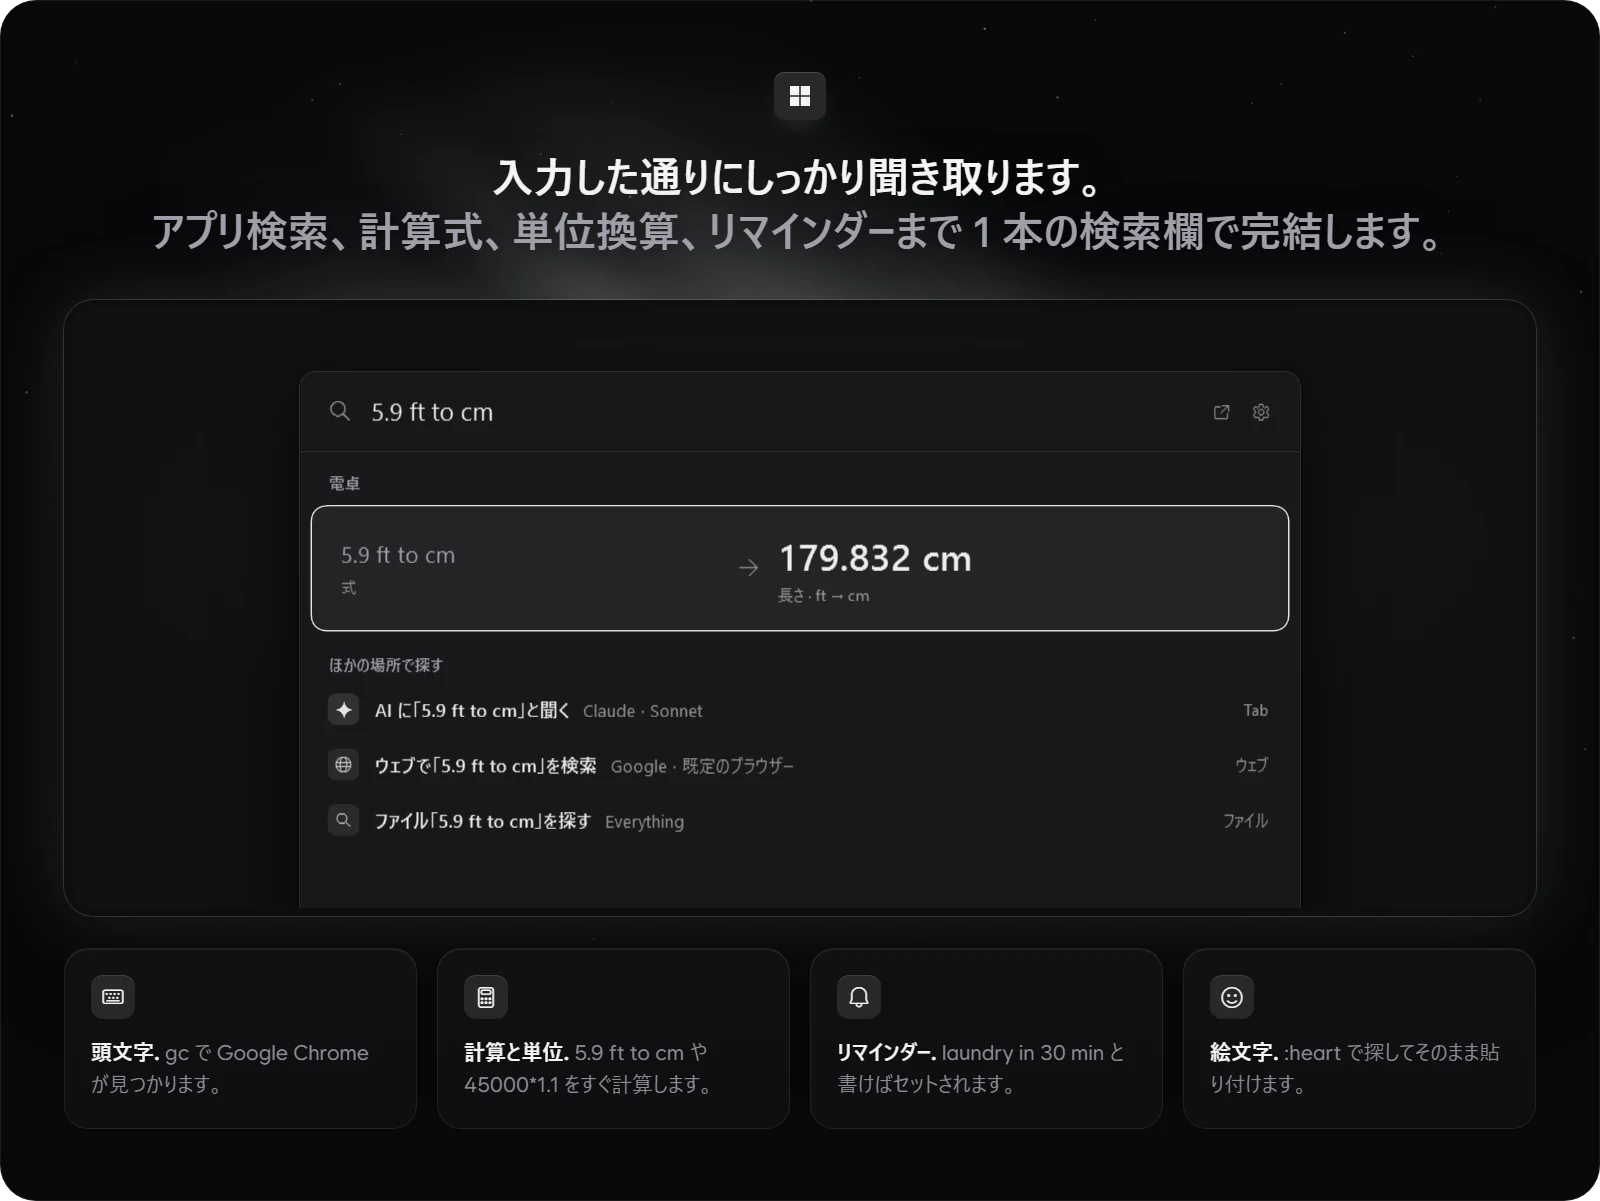
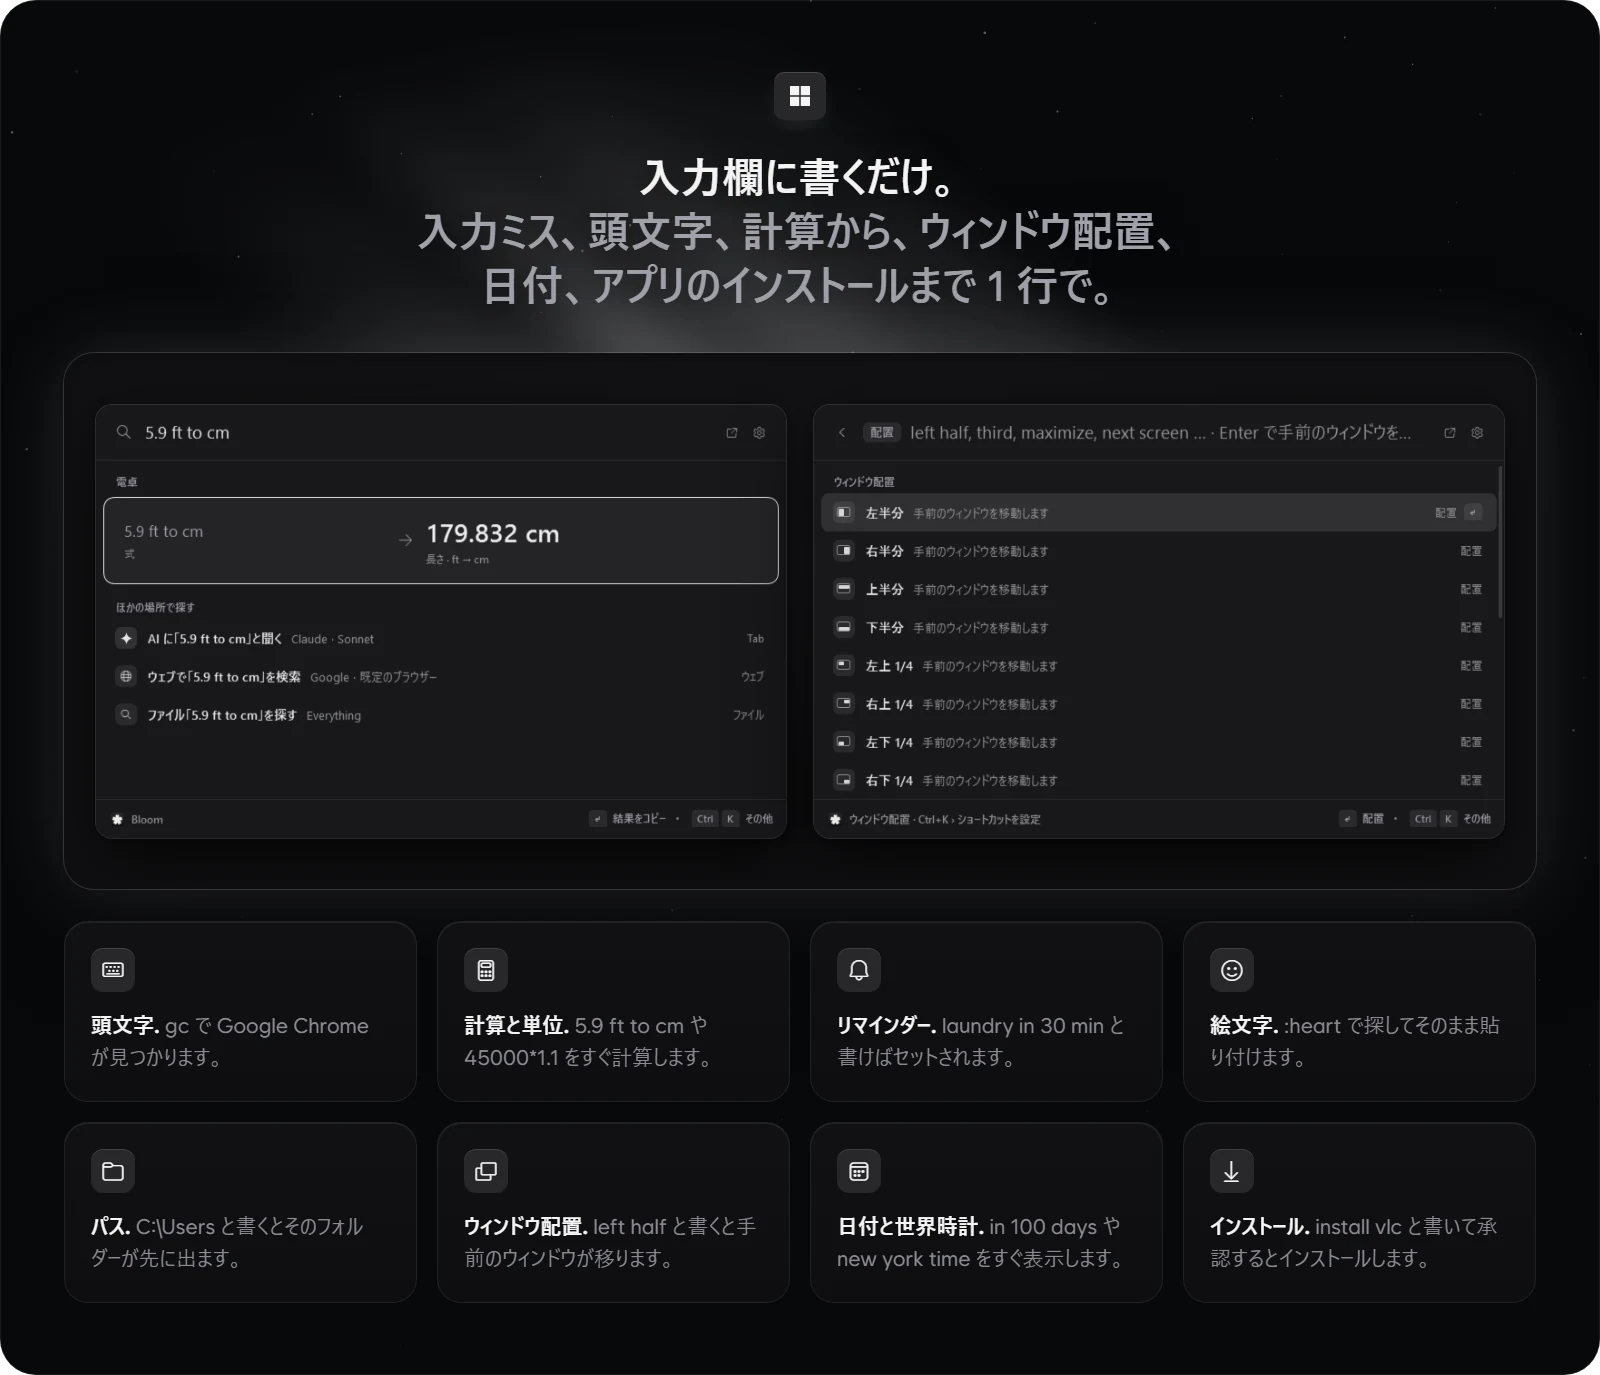
README: the search line and what it runs in one section and one board
"One search line" and "Paths, windows, dates and installs" become one section:
one list, one board with both pictures side by side and the eight cards, and
the head from the promo video (Just type it in). Four languages.

diff --git a/README.ja.md b/README.ja.md
@@ -39,7 +39,7 @@ irm https://raw.githubusercontent.com/hyeon1035298/Bloom/main/install.ps1 | iex
 
 ### 1 本の検索欄
 
-<img src="docs/media/ja/search.webp" alt="5.9 ft to cm を換算したランチャーと、頭文字、計算と単位、リマインダー、絵文字を説明するカード">
+<img src="docs/media/ja/search.webp" alt="5.9 ft to cm を換算したランチャーとウィンドウ配置の一覧、頭文字、計算と単位、リマインダー、絵文字、パス、ウィンドウ配置、日付、インストールのカード">
 
 - インストール済みのアプリ、Windows の設定、Bloom のコマンドをすばやく探せます。英語の頭文字（`gc`）だけで探せるほか、韓国語入力では初声（`ㅁㅁㅈ`）や IME の切り替え忘れ（`초개ㅡㄷ`）にも対応しています。
 - `45000*1.1`、`5.9 ft to cm`、`100 usd` のように計算式や単位、通貨を入力するとその場で計算し、Enter を押せば結果をクリップボードにコピーします。
@@ -47,11 +47,6 @@ irm https://raw.githubusercontent.com/hyeon1035298/Bloom/main/install.ps1 | iex
 - `:heart` のように入力して絵文字を探したり、`yt cats` のように先頭にキーワードを付けて目的のサイトを直接検索したりできます。
 - Everything がインストールされていれば、PC 内のあらゆるファイルを名前ですぐに見つけ出せます。
 - 検索結果で Ctrl+K を押すとその項目に対して行える操作の一覧が開き、空の検索欄に `?` を入力すると使える入力例をひと目で確認できます。
-
-### パス、ウィンドウ、日付、インストール
-
-<img src="docs/media/ja/more.webp" alt="半分や 4 分の 1 をアイコンで示したウィンドウ配置の一覧と、パス、ウィンドウ配置、日付と世界時計、インストールを説明するカード">
-
 - `C:\Users` のようにフォルダーのパスを入力すると、エクスプローラーをわざわざ開かなくてもその場で中身を確認できます。
 - `left half`、`maximize`、`next screen` のように入力して、今見ているウィンドウを画面半分に寄せたり別のモニターへ移したりできます。
 - `in 100 days` や `tokyo 3pm` のように入力して、日付の計算や世界各地の時刻の確認ができます。

diff --git a/README.ko.md b/README.ko.md
@@ -39,7 +39,7 @@ irm https://raw.githubusercontent.com/hyeon1035298/Bloom/main/install.ps1 | iex
 
 ### 검색줄 하나로
 
-<img src="docs/media/ko/search.webp" alt="초성 ㅁㅁㅈ로 메모장을 찾은 런처와, 초성, 계산과 단위, 알림, 이모지를 설명하는 카드">
+<img src="docs/media/ko/search.webp" alt="초성 ㅁㅁㅈ로 메모장을 찾은 런처와 창 배치 목록, 그리고 초성, 계산과 단위, 알림, 이모지, 경로, 창 배치, 날짜, 앱 설치 카드">
 
 - 설치된 앱과 Windows 설정, Bloom 명령을 빠르게 찾습니다. 초성(`ㅁㅁㅈ`)이나 영어 첫 글자(`gc`)만 적어도 되고, 한/영 키를 안 바꾸고 그냥 친 글자(`초개ㅡㄷ`)도 알아듣습니다.
 - `45000*1.1`, `84m2 to 평`, `100 usd`처럼 계산식이나 단위, 환율을 적으면 바로 계산해 주고, Enter를 누르면 결과를 클립보드에 복사합니다.
@@ -47,11 +47,6 @@ irm https://raw.githubusercontent.com/hyeon1035298/Bloom/main/install.ps1 | iex
 - `:하트`처럼 적어 이모지를 찾고, `yt 고양이`처럼 앞글자를 붙여 원하는 사이트에서 바로 검색합니다.
 - Everything이 깔려 있으면 PC 안의 모든 파일을 이름으로 바로 찾아 줍니다.
 - 검색 결과에서 Ctrl+K를 누르면 그 항목으로 할 수 있는 작업 목록이 열리고, 빈 검색줄에 `?`를 적으면 쓸 수 있는 입력 예시를 한눈에 보여 줍니다.
-
-### 경로, 창 배치, 날짜, 앱 설치
-
-<img src="docs/media/ko/more.webp" alt="절반과 1/4을 그림으로 보여 주는 창 배치 목록과, 경로, 창 배치, 날짜와 세계 시간, 앱 설치를 설명하는 카드">
-
 - `C:\Users`처럼 폴더 경로를 적으면 탐색기를 따로 열지 않고도 그 안의 파일과 폴더를 바로 둘러봅니다.
 - `왼쪽 절반`, `최대화`, `다음 화면으로`처럼 적어 지금 보고 있는 창을 화면 절반에 맞추거나 다른 모니터로 옮깁니다.
 - `100일 뒤`, `도쿄 오후 3시`처럼 적어 날짜를 계산하고 다른 나라 시간을 확인합니다.

diff --git a/README.md b/README.md
@@ -39,7 +39,7 @@ irm https://raw.githubusercontent.com/hyeon1035298/Bloom/main/install.ps1 | iex
 
 ### One search line
 
-<img src="docs/media/en/search.webp" alt="The launcher converting 5.9 ft to cm, with cards on initials, maths and units, reminders and emoji">
+<img src="docs/media/en/search.webp" alt="The launcher converting 5.9 ft to cm next to the window layout list, with cards on initials, maths and units, reminders, emoji, paths, window layouts, dates and app installs">
 
 - Quickly find installed apps, Windows settings, and Bloom commands. You can type just the initials (`gc`), and for Korean input it also recognizes initial consonants (`ㅁㅁㅈ`) or words typed without switching the keyboard layout (`초개ㅡㄷ`).
 - Type math expressions, unit conversions, or currencies like `45000*1.1`, `5.9 ft to cm`, or `100 usd` to see the answer right away, then press Enter to copy it to the clipboard.
@@ -47,11 +47,6 @@ irm https://raw.githubusercontent.com/hyeon1035298/Bloom/main/install.ps1 | iex
 - Find emoji by name with `:heart`, or search websites directly with a prefix like `yt cats`.
 - With Everything installed, you can find any file on your PC by name right away.
 - Press Ctrl+K on any search result to see all the actions you can take on it, or type `?` in an empty search line to see examples of what you can type.
-
-### Paths, windows, dates and installs
-
-<img src="docs/media/en/more.webp" alt="The window layout list with drawn icons for halves and quarters, with cards on paths, window layout, dates and world clock, and installing apps">
-
 - Type a folder path like `C:\Users` to browse its files and subfolders right inside the launcher without opening File Explorer.
 - Type commands like `left half`, `maximize`, or `next screen` to snap the active window or move it to another monitor.
 - Calculate dates and check world times by typing phrases like `in 100 days` or `tokyo 3pm`.

diff --git a/README.zh-CN.md b/README.zh-CN.md
@@ -39,7 +39,7 @@ irm https://raw.githubusercontent.com/hyeon1035298/Bloom/main/install.ps1 | iex
 
 ### 一个搜索栏
 
-<img src="docs/media/zh/search.webp" alt="启动器把 5.9 ft to cm 换算出来，下方卡片介绍首字母、计算和单位、提醒和表情">
+<img src="docs/media/zh/search.webp" alt="启动器把 5.9 ft to cm 换算出来，旁边是窗口布局列表，下方卡片介绍首字母、计算和单位、提醒、表情、路径、窗口布局、日期和安装">
 
 - 快速查找已安装的应用、Windows 设置和 Bloom 命令。支持只输英文首字母（`gc`），如果使用韩语输入，还能识别初声（`ㅁㅁㅈ`）或忘记切换输入法时打出的字符（`초개ㅡㄷ`）。
 - 输入 `45000*1.1`、`5.9 ft to cm`、`100 usd` 这样的算式、单位或汇率即可实时算出结果，按 Enter 就能复制到剪贴板。
@@ -47,11 +47,6 @@ irm https://raw.githubusercontent.com/hyeon1035298/Bloom/main/install.ps1 | iex
 - 输入 `:heart` 查找表情符号，或者像 `yt cats` 这样加上前缀直接搜索指定网站。
 - 安装 Everything 后，按文件名就能秒搜电脑里的任何文件。
 - 在搜索结果上按 Ctrl+K 会列出对该项目可执行的所有操作；在空搜索栏里输入 `?` 则能一览支持的输入示例。
-
-### 路径、窗口、日期和安装
-
-<img src="docs/media/zh/more.webp" alt="用图标表示半屏和四分之一屏的窗口布局列表，以及介绍路径、窗口布局、日期和世界时钟、安装的卡片">
-
 - 输入 `C:\Users` 这样的文件夹路径，不用专门打开资源管理器，就能直接在启动器里查看里面的文件和子文件夹。
 - 输入 `left half`、`maximize`、`next screen` 等指令，把当前窗口贴靠到半屏或移到另一台显示器。
 - 输入 `in 100 days` 或 `tokyo 3pm`，轻松推算日期和查看世界各地的时间。
